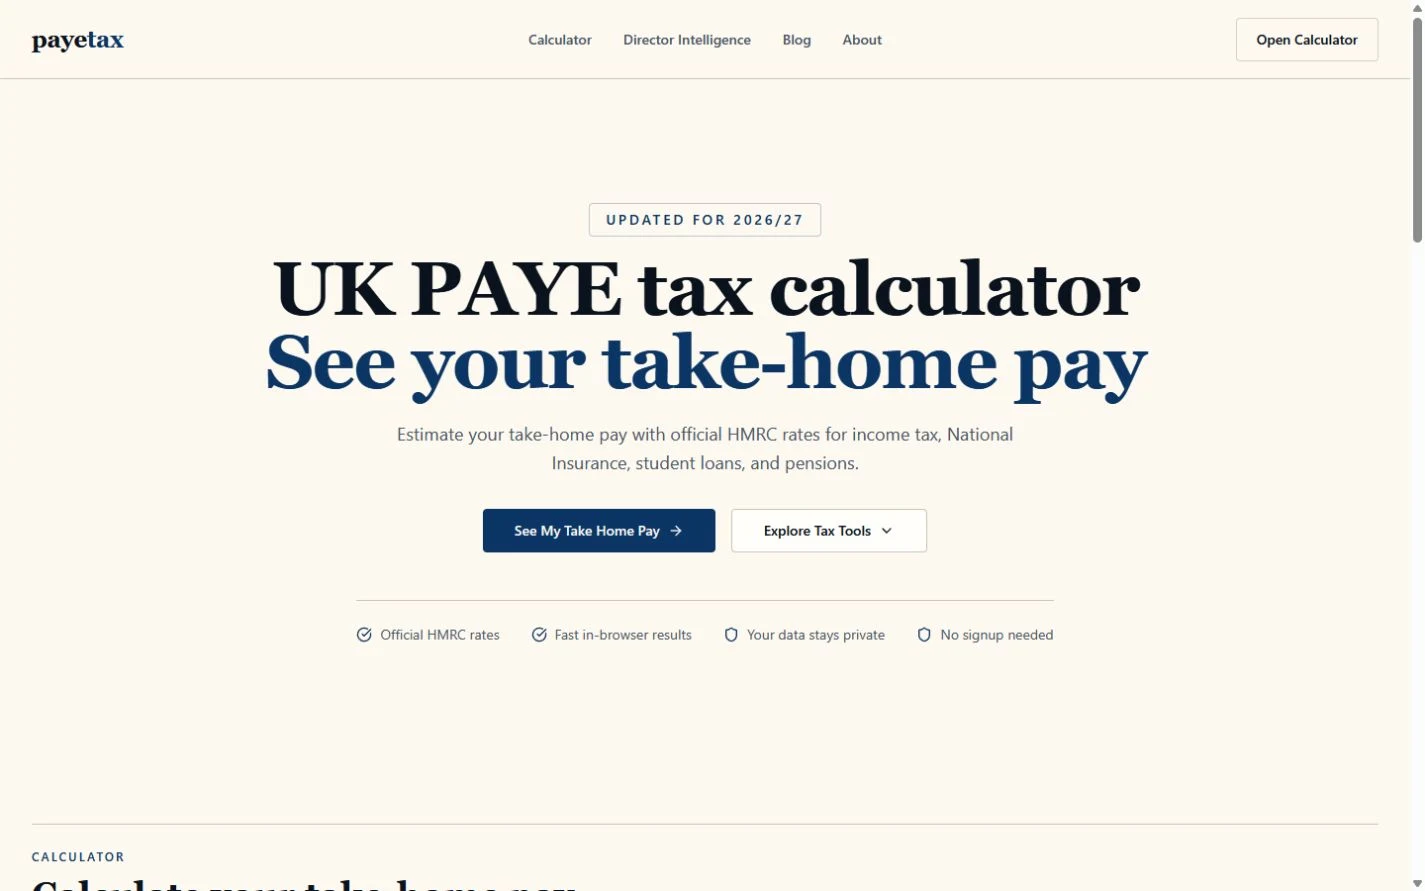
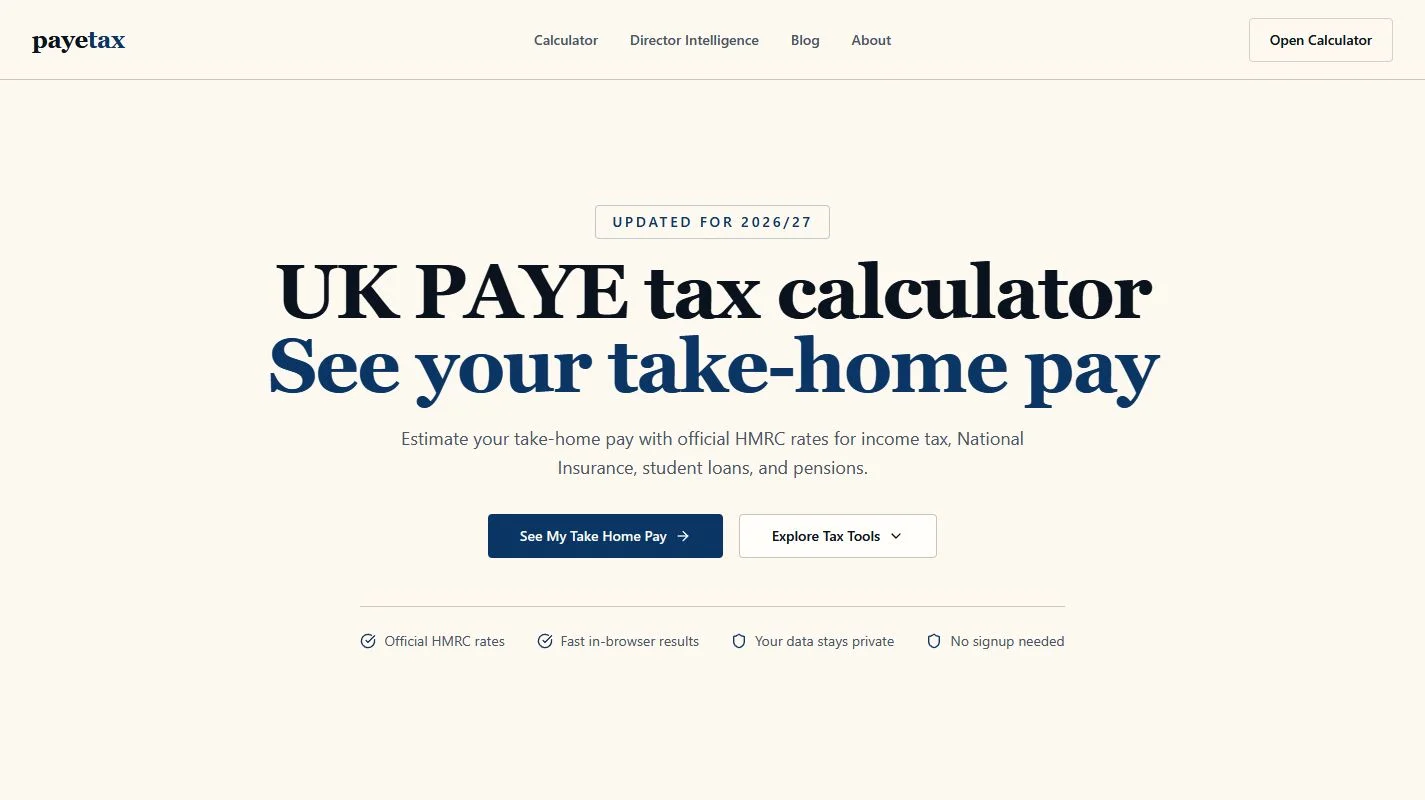
Refine Open Book presentation and accessibility

diff --git a/src/components/open-book.test.tsx b/src/components/open-book.test.tsx
@@ -1,10 +1,29 @@
+import { Children, isValidElement, type ReactNode } from "react";
 import { renderToStaticMarkup } from "react-dom/server";
 import { describe, expect, it } from "vitest";
 import Home from "@/app/page";
+import ProjectPage from "@/app/projects/[slug]/page";
+import ProjectsPage from "@/app/projects/page";
 import { allProjects } from "@/lib/content";
-import { SiteHeader } from "./site-chrome";
+import { Prose } from "./prose";
+import { SiteFooter, SiteHeader } from "./site-chrome";
+
+function findProseSource(node: ReactNode): string | undefined {
+  if (!isValidElement<{ children?: ReactNode; source?: string }>(node)) {
+    return undefined;
+  }
+  if (node.type === Prose) return node.props.source;
+  return Children.toArray(node.props.children)
+    .map(findProseSource)
+    .find((source) => source !== undefined);
+}
 
 describe("public Open Book experience", () => {
+  it("preserves the footer space after formatting JSX", () => {
+    expect(renderToStaticMarkup(<SiteFooter />)).toContain(
+      'Jarryd Aubert<span class="text-accent">.</span> \u00a9 2026',
+    );
+  });
   it("keeps archived writing and experiments out of the public entry points", () => {
     const html = renderToStaticMarkup(
       <>
@@ -18,8 +37,13 @@ describe("public Open Book experience", () => {
     expect(html).toContain('href="/projects"');
     expect(html).toContain('href="/about"');
     for (const project of allProjects) {
-      expect(html).toContain(`href="${project.href}"`);
-      expect(html).toContain(project.status);
+      const article = [
+        ...html.matchAll(/<article\b[^>]*>([\s\S]*?)<\/article>/g),
+      ]
+        .map((match) => match[1])
+        .find((content) => content.includes(`href="${project.href}"`));
+      expect(article).toBeDefined();
+      expect(article).toContain(project.status);
     }
   });
 
@@ -32,7 +56,39 @@ describe("public Open Book experience", () => {
     expect(images.filter((alt) => alt.includes("ProsePal"))).toEqual([
       "ProsePal&#x27;s feather app icon",
     ]);
-    expect(html).toContain("Native app in development");
-    expect(html).not.toContain("Live app");
+  });
+
+  it("distinguishes the forthcoming SwiftUI rebuild from the Flutter release on its detail page", async () => {
+    const page = await ProjectPage({
+      params: Promise.resolve({ slug: "prosepal" }),
+    });
+    const header = Children.toArray(page.props.children).find(
+      (child) => isValidElement(child) && child.type === "header",
+    );
+    const headerHtml = renderToStaticMarkup(header);
+    expect(headerHtml).toContain("<h1>ProsePal</h1>");
+    expect(headerHtml.match(/Native app in development/g)).toHaveLength(1);
+
+    const source = findProseSource(page);
+    expect(source).toBeDefined();
+    const body = renderToStaticMarkup(await Prose({ source: source ?? "" }));
+    expect(body).toContain("I&#x27;m rebuilding it in SwiftUI");
+    const releaseParagraph = [...body.matchAll(/<p>([\s\S]*?)<\/p>/g)]
+      .map((match) => match[1])
+      .find((content) => content.includes("existing App Store app"));
+    expect(releaseParagraph).toContain(
+      'href="https://apps.apple.com/app/prosepal/id6757088726"',
+    );
+    expect(releaseParagraph).toContain("is the earlier Flutter version.");
+    expect(releaseParagraph).toContain(
+      "This SwiftUI rebuild isn&#x27;t released yet.",
+    );
+  });
+
+  it("uses h2 project titles directly beneath the projects page h1", () => {
+    const html = renderToStaticMarkup(<ProjectsPage />);
+    expect([...html.matchAll(/<h([123])\b/g)].map((match) => match[1])).toEqual(
+      ["1", "2", "2", "2"],
+    );
   });
 });

diff --git a/src/components/open-book.tsx b/src/components/open-book.tsx
@@ -27,9 +27,9 @@ export function PayeTaxMedia({ priority = false }: { priority?: boolean }) {
         unoptimized
         className={styles.desktopImage}
         src="/projects/payetax-desktop.webp"
-        alt="PayeTax's live website on desktop, opening with See your take-home pay."
+        alt="PayeTax's live UK PAYE calculator homepage on desktop."
         width={1425}
-        height={891}
+        height={800}
         sizes="(max-width: 600px) 70vw, 72vw"
         priority={priority}
       />
@@ -39,7 +39,7 @@ export function PayeTaxMedia({ priority = false }: { priority?: boolean }) {
         src="/projects/payetax-mobile.webp"
         alt="The same PayeTax website on a mobile screen."
         width={375}
-        height={812}
+        height={814}
         sizes="(max-width: 600px) 22vw, 17vw"
       />
     </div>
@@ -62,14 +62,18 @@ export function ProsePalMedia() {
       <p className={styles.proseNote}>
         Finding the words.
         <br />
-        <em>Finding a new home on iPhone.</em>
+        <em>Rebuilding it natively for iOS.</em>
       </p>
-      <p className={styles.proseStatus}>Native rebuild in development</p>
     </div>
   );
 }
 
-export function ProjectShowcase() {
+export function ProjectShowcase({
+  headingLevel = 3,
+}: {
+  headingLevel?: 2 | 3;
+}) {
+  const Heading = headingLevel === 2 ? "h2" : "h3";
   const payetax = allProjects.find((p) => p.slug === "payetax");
   const prosepal = allProjects.find((p) => p.slug === "prosepal");
   const website = allProjects.find((p) => p.slug === "this-website");
@@ -87,11 +91,11 @@ export function ProjectShowcase() {
         </Link>
         <div className={styles.projectCaption}>
           <div>
-            <h3>
+            <Heading className={styles.projectTitle}>
               <Link href={payetax.href} variant="nav">
                 {payetax.name} <Arrow />
               </Link>
-            </h3>
+            </Heading>
             <p>{payetax.summary}</p>
           </div>
           <span className={styles.status}>{payetax.status}</span>
@@ -108,11 +112,11 @@ export function ProjectShowcase() {
         </Link>
         <div className={styles.proseCopy}>
           <span className={styles.status}>{prosepal.status}</span>
-          <h3>
+          <Heading className={styles.projectTitle}>
             <Link href={prosepal.href} variant="nav">
               {prosepal.name} <Arrow />
             </Link>
-          </h3>
+          </Heading>
           <p>{prosepal.summary}</p>
           <p>{prosepal.theme}</p>
           <Link href={prosepal.href} className={styles.arrowLink}>
@@ -121,11 +125,11 @@ export function ProjectShowcase() {
         </div>
       </article>
       <article className={styles.websiteProject}>
-        <h3>
+        <Heading className={styles.projectTitle}>
           <Link href={website.href} variant="nav">
             This website <Arrow />
           </Link>
-        </h3>
+        </Heading>
         <div>
           <p>{website.summary} You&apos;re looking at it.</p>
           <Link

diff --git a/src/components/open-book.module.css b/src/components/open-book.module.css
@@ -78,17 +78,25 @@
   gap: 25px;
   margin-top: 26px;
 }
-.work h3 {
+.work .projectTitle {
   font-size: 36px;
   line-height: 1.1;
   letter-spacing: -0.025em;
 }
-.work h3 a {
+.work .projectTitle a {
   display: inline-flex;
   align-items: center;
   gap: 22px;
   color: var(--color-fg);
   font-weight: 400;
+}
+.work article:focus-within .projectTitle a {
+  color: var(--color-accent);
+}
+@media (hover: hover) {
+  .work article:hover .projectTitle a {
+    color: var(--color-accent);
+  }
 }
 .work p {
   color: var(--color-muted);
@@ -140,14 +148,10 @@
   margin-top: 20px;
   color: var(--color-fg);
 }
-.proseMedia .proseStatus {
-  font-size: 11px;
-  margin-top: 28px;
-}
 .proseCopy {
   max-width: 385px;
 }
-.proseCopy h3 {
+.proseCopy .projectTitle {
   margin-top: 15px;
   margin-bottom: 20px;
 }
@@ -329,7 +333,7 @@
   .projectCaption .status {
     padding: 0;
   }
-  .work h3 {
+  .work .projectTitle {
     font-size: 32px;
   }
   .work p {
@@ -352,7 +356,7 @@
   .proseMedia .proseName {
     font-size: 46px;
   }
-  .proseCopy h3 {
+  .proseCopy .projectTitle {
     margin: 10px 0 14px;
   }
   .websiteProject {

diff --git a/src/app/sitemap.ts b/src/app/sitemap.ts
@@ -8,10 +8,11 @@ export default function sitemap(): MetadataRoute.Sitemap {
   const siteLastModified = site.updatedAt;
 
   const routes = [
-    ...["/", "/about", "/projects", "/writing"].map((path) => ({
+    ...["/", "/about", "/projects"].map((path) => ({
       path,
       lastModified: siteLastModified,
     })),
+    { path: "/writing", lastModified: undefined },
     ...allEssays.map((essay) => ({
       path: essay.href,
       lastModified: essay.updatedAt ?? essay.publishedAt,

diff --git a/src/app/projects/[slug]/page.tsx b/src/app/projects/[slug]/page.tsx
@@ -86,8 +86,8 @@ export default async function ProjectPage({ params }: ProjectPageProps) {
             unoptimized
             src="/projects/payetax-calculator.webp"
             alt="PayeTax showing the tax breakdown for an illustrative annual salary of 50,000 pounds."
-            width={1425}
-            height={891}
+            width={1410}
+            height={1184}
             sizes="90vw"
             className={styles.calculator}
           />

diff --git a/src/lib/site.ts b/src/lib/site.ts
@@ -1,7 +1,8 @@
 export const site = {
   name: "Jarryd Aubert",
   shortName: "Jarryd",
-  updatedAt: "2026-10-11",
+  // Last substantive revision of the public pages. Update with content, not builds.
+  updatedAt: "2026-10-12",
   url: "https://jarrydaubert.com",
   email: "me@jarrydaubert.com",
   description:

diff --git a/src/components/site-chrome.tsx b/src/components/site-chrome.tsx
@@ -32,7 +32,8 @@ export function SiteFooter() {
     <footer className="site-footer">
       <p>
         {site.name}
-        <span className="text-accent">.</span> &copy; 2026
+        <span className="text-accent">.</span>
+        {" \u00a9 2026"}
       </p>
       <ul>
         <li>

diff --git a/src/app/projects/page.tsx b/src/app/projects/page.tsx
@@ -20,7 +20,7 @@ export default function ProjectsPage() {
           A calculator, an iPhone app, and this little corner of the internet.
         </p>
       </header>
-      <ProjectShowcase />
+      <ProjectShowcase headingLevel={2} />
     </section>
   );
 }

diff --git a/src/app/globals.css b/src/app/globals.css
@@ -69,6 +69,9 @@ body {
   flex: 1;
   padding-bottom: 75px;
 }
+.site-main:focus {
+  outline: none;
+}
 .archive-page {
   padding-top: 60px;
 }

diff --git a/DESIGN.md b/DESIGN.md
@@ -57,5 +57,5 @@ The original essay and unlisted experiment routes retain their content and index
 
 ### Image provenance
 
-- PayeTax screenshots: live `https://payetax.co.uk/`, captured 11 October 2026. Desktop 1425 x 891, mobile 375 x 812. The calculator uses the site's example salary of GBP 50,000. Saved as WebP without changing the interface. These compact captures are served directly through Next Image with reserved dimensions, avoiding runtime recompression.
+- PayeTax screenshots: live `https://payetax.co.uk/`, recaptured 12 October 2026. Desktop hero 1425 x 800, mobile hero 375 x 814, calculator 1410 x 1184. Browser captures are cropped at section boundaries and exclude the scrollbar gutter. The calculator uses the site's example salary of GBP 50,000. Saved as WebP without changing the interface. These compact captures are served directly through Next Image with reserved dimensions, avoiding runtime recompression.
 - ProsePal icon: `https://prosepal.app/apple-touch-icon.png`, retrieved 11 October 2026. The icon is identity material, not a screenshot of the native rebuild.
